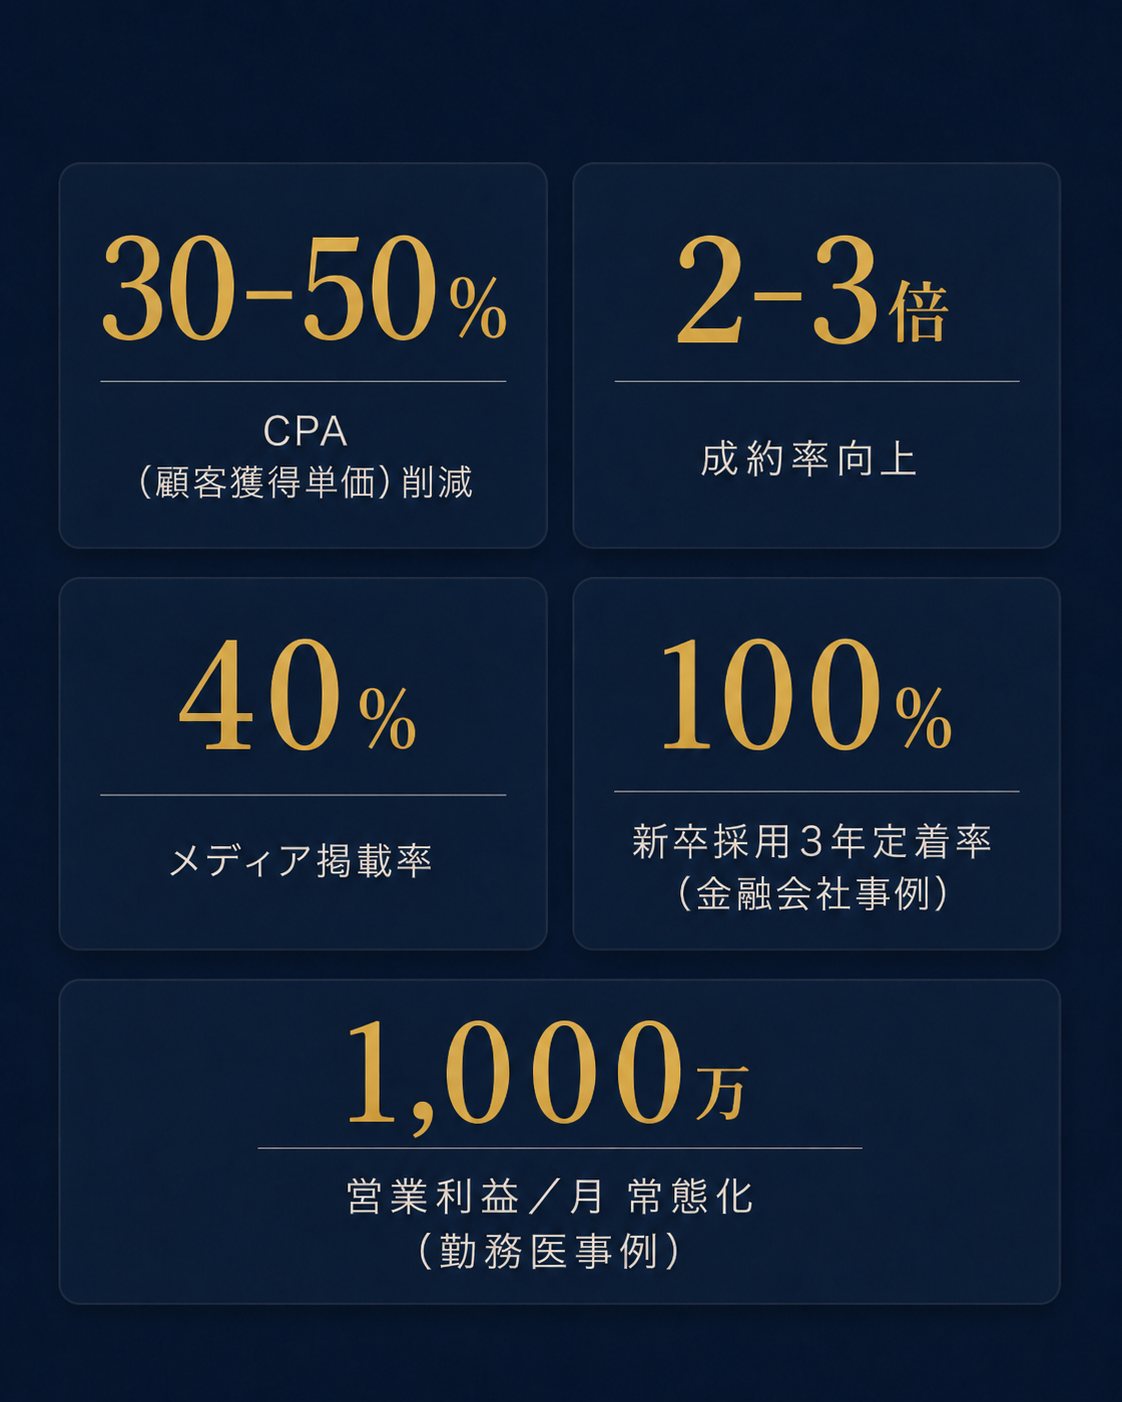
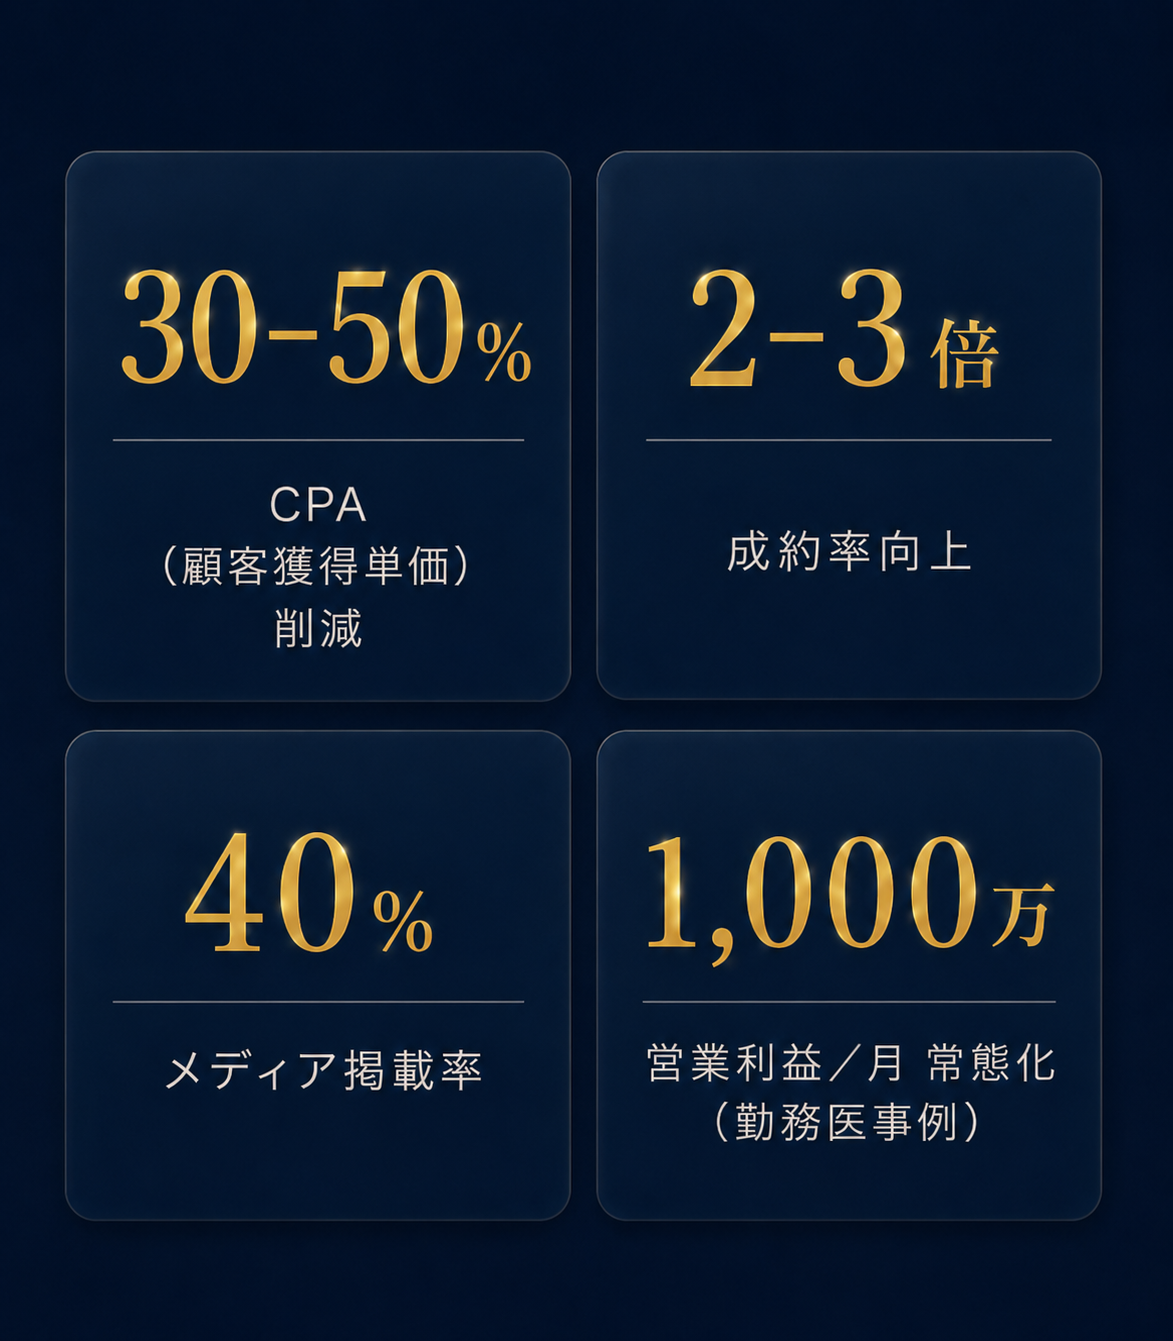
v9: results-photo.png を4項目版に差し替え

diff --git a/v9/index.html b/v9/index.html
@@ -922,7 +922,7 @@
   <div class="sec-label">RESULTS</div>
   <div class="gold-bar"></div>
   <h2 class="sec-title">本を軸にしたIP戦略の成果</h2>
-  <img src="results-photo.png?v=2" alt="本を軸にしたIP戦略の成果" style="display:block; width:100%; margin-top:32px;">
+  <img src="results-photo.png?v=3" alt="本を軸にしたIP戦略の成果" style="display:block; width:100%; margin-top:32px;">
   <div style="position:relative; width:calc(100% + 48px); margin:32px -24px 0; overflow:hidden;">
     <img src="recruit.png" alt="" style="display:block; width:100%;">
     <div style="position:absolute; top:0; left:0; right:0; height:28%; background:linear-gradient(to bottom, var(--navy-mid) 0%, rgba(13,21,37,0.6) 60%, transparent 100%); pointer-events:none;"></div>
